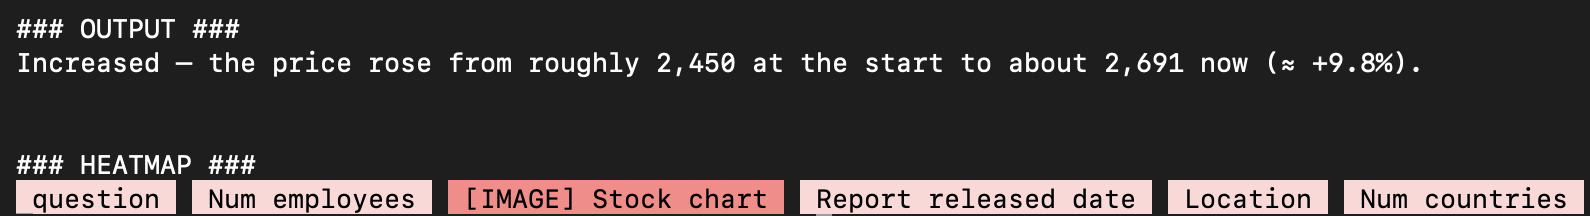
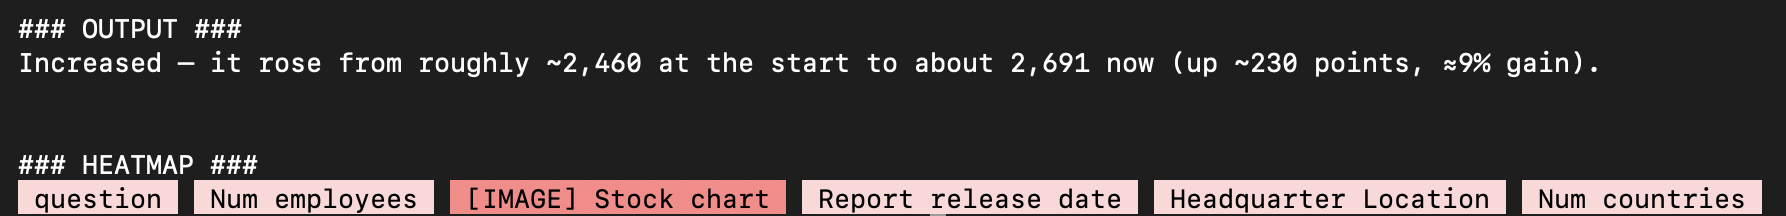
Updated images and improved examples (#58)

diff --git a/README.md b/README.md
@@ -57,6 +57,7 @@ print(result.render())
 ```
 
 ## Multimodal example with `Image`:
+The following example shows `llmSHAP` with images. Note: `EmbeddingCosineSimilarity` downloads an embedding model on first use.
 ```python
 from llmSHAP import DataHandler, BasicPromptCodec, ShapleyAttribution, EmbeddingCosineSimilarity, Image
 from llmSHAP.llm import OpenAIInterface
@@ -65,16 +66,17 @@ data = {
     "question": "Has our stockprice increased or decreased since the beginning?",
     "Num employees"        : "The company has about 450 employees.",
     "[IMAGE] Stock chart"  : Image(image_path="./docs/_static/demo-stock-price.png"),
-    "Report released date" : "Quarterly reports are released on the 15th.",
-    "Location"             : "The headquarters is located in a mid-sized city.",
+    "Report release date"  : "Quarterly reports are released on the 15th.",
+    "Headquarter Location" : "The headquarters is located in a mid-sized city.",
     "Num countries"        : "It has offices in three countries."
 }
 
-result = ShapleyAttribution(model=OpenAIInterface("gpt-5-mini", reasoning="medium"),
+result = ShapleyAttribution(model=OpenAIInterface("gpt-5-mini", reasoning="low"),
                             data_handler=DataHandler(data, permanent_keys={"question"}),
                             prompt_codec=BasicPromptCodec(system="Answer the question briefly."),
                             use_cache=True,
                             num_threads=35,
+                            value_function=EmbeddingCosineSimilarity(),
                             ).attribution()
 
 print("\n\n### OUTPUT ###")
@@ -91,8 +93,8 @@ print(result.render(abs_values=True, render_labels=True))
 </div>
 <!-- <div align='center'>
     <picture>
-        <source media="(prefers-color-scheme: light)" srcset="https://raw.githubusercontent.com/filipnaudot/llmSHAP/main/docs/_static/llmSHAP-logo-lightmode.png">
-        <img alt="lighbench logo" src="https://raw.githubusercontent.com/filipnaudot/llmSHAP/main/docs/_static/llmSHAP-logo-darkmode.png" width="50%" height="50%">
+        <source media="(prefers-color-scheme: light)" srcset="https://raw.githubusercontent.com/filipnaudot/llmSHAP/main/docs/_static/example-result-lightmode.png">
+        <img alt="lighbench logo" src="https://raw.githubusercontent.com/filipnaudot/llmSHAP/main/docs/_static/example-result-darkmode.png" width="100%" height="100%">
     </picture>
 </div> -->
 
